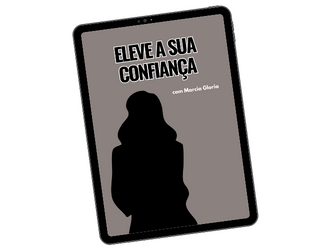
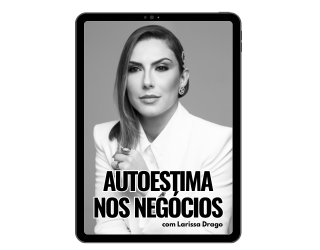
Alterações de imagens

diff --git a/index.html b/index.html
@@ -12995,8 +12995,8 @@
                                   data-settings="{&quot;_animation&quot;:&quot;none&quot;}"
                                   data-widget_type="heading.default">
                                   <div class="elementor-widget-container">
-                                    <h2 class="elementor-heading-title elementor-size-default">Uma aula com a Marcia
-                                      Glória, que vai ajudar você a se sentir mais segura e confiante na hora das
+                                    <h2 class="elementor-heading-title elementor-size-default">Uma aula com a Larissa
+                                      Drago, que vai ajudar você a se sentir mais segura e confiante na hora das
                                       vendas. De R$ 70,00 você não vai precisar pagar nada por isso!</h2>
                                   </div>
                                 </div>
@@ -13407,6 +13407,10 @@
                             </div>
                             <div class="swiper-slide">
                               <figure class="swiper-slide-inner"><img class="swiper-slide-image"
+                                  src="https://www.pallomaguimaraes.com.br/paoLucrativo/imagens/dep6.jpg" alt="depoimentos4" /></figure>
+                            </div>
+                            <div class="swiper-slide">
+                              <figure class="swiper-slide-inner"><img class="swiper-slide-image"
                                   src="https://www.pallomaguimaraes.com.br/paoLucrativo/imagens/dep2.jpg" /></figure>
                             </div>
                             <div class="swiper-slide">
@@ -13416,6 +13420,10 @@
                             <div class="swiper-slide">
                               <figure class="swiper-slide-inner"><img class="swiper-slide-image"
                                   src="https://www.pallomaguimaraes.com.br/paoLucrativo/imagens/dep4.jpg" /></figure>
+                            </div>
+                            <div class="swiper-slide">
+                              <figure class="swiper-slide-inner"><img class="swiper-slide-image"
+                                  src="https://www.pallomaguimaraes.com.br/paoLucrativo/imagens/dep7.jpg" alt="depoimentos4" /></figure>
                             </div>
                             <div class="swiper-slide">
                               <figure class="swiper-slide-inner"><img class="swiper-slide-image"
@@ -14047,8 +14055,8 @@
                     <div class="elementor-element elementor-element-151afb5 elementor-widget elementor-widget-heading"
                       data-id="151afb5" data-element_type="widget" data-widget_type="heading.default">
                       <div class="elementor-widget-container">
-                        <h2 class="elementor-heading-title elementor-size-default">Quer mudar o rumo da sua vida financeira<br />
-                          ainda este ano?</h2>
+                        <h2 class="elementor-heading-title elementor-size-default">Quer mudar o rumo da sua vida<br />
+                          financeira ainda este ano?</h2>
                       </div>
                     </div>
                     <div class="elementor-element elementor-element-7f820ee elementor-widget elementor-widget-heading"
